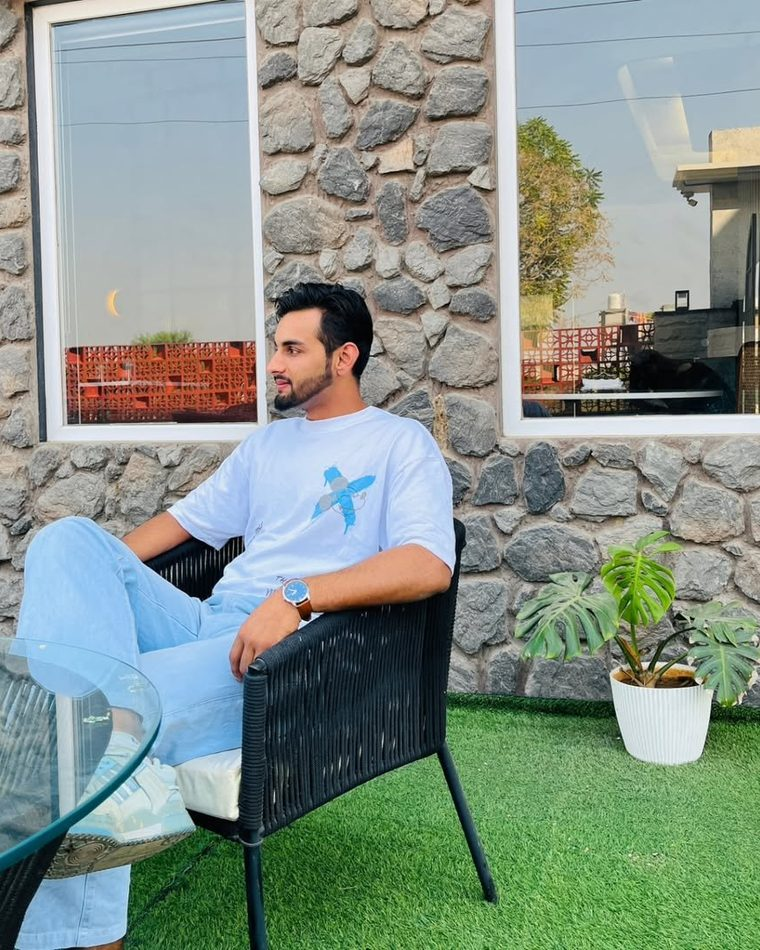
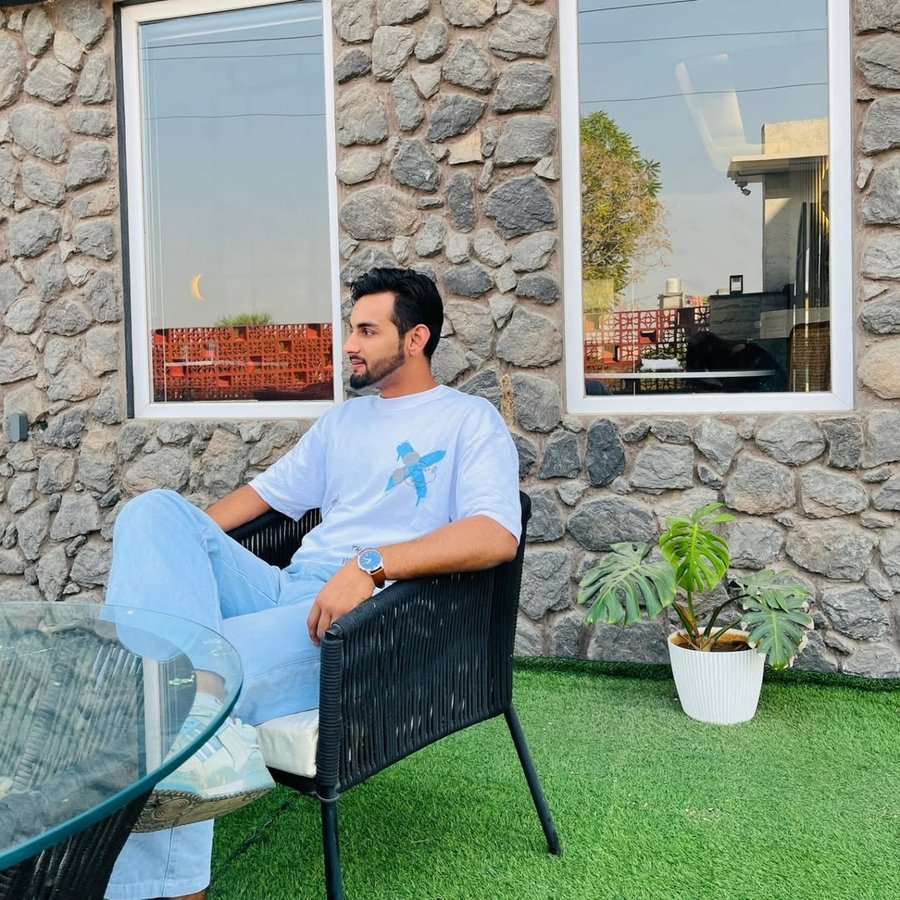
Refocus on GBP optimization & verification; full uncropped founder photos; remove empty case-study/proof-gallery slots; nav cleanup

diff --git a/lib/services.ts b/lib/services.ts
@@ -513,18 +513,18 @@ export type ServiceCard = {
 };
 
 export const SERVICE_CARDS: ServiceCard[] = [
-  { name: "Digital Marketing", icon: "Megaphone", blurb: "Full-funnel campaigns that turn attention into customers.", href: "/services/digital-marketing" },
+  { name: "Google Business Profile", icon: "Store", blurb: "Setup, verification & optimization — our specialty.", href: "/services/google-business-profile" },
+  { name: "Google Maps Ranking", icon: "Map", blurb: "Show up first when locals search nearby.", href: "/services/google-business-profile" },
+  { name: "Local SEO", icon: "MapPin", blurb: "Own the map pack and 'near me' searches.", href: "/services/local-seo" },
   { name: "Website Design & Development", icon: "MonitorSmartphone", blurb: "Fast, modern sites engineered to convert.", href: "/services/website-development" },
   { name: "Search Engine Optimization", icon: "TrendingUp", blurb: "Rank for the searches your buyers actually make.", href: "/services/seo" },
-  { name: "Local SEO", icon: "MapPin", blurb: "Own the map pack and 'near me' searches.", href: "/services/local-seo" },
-  { name: "Google Business Profile", icon: "Store", blurb: "A profile that turns searches into calls.", href: "/services/google-business-profile" },
-  { name: "Google Maps Ranking", icon: "Map", blurb: "Show up first when locals search nearby.", href: "/services/local-seo" },
   { name: "AI Agents", icon: "Bot", blurb: "AI employees that answer and book 24/7.", href: "/services/ai-agents" },
   { name: "AI Automation", icon: "Workflow", blurb: "Put lead handling and follow-up on autopilot.", href: "/services/ai-automation" },
   { name: "Lead Generation", icon: "Target", blurb: "A predictable pipeline of qualified leads.", href: "/services/lead-generation" },
-  { name: "Domain Registration", icon: "Globe", blurb: "Secure the perfect domain for your brand.", href: "/services/domain-hosting" },
-  { name: "Web Hosting", icon: "Server", blurb: "Fast, secure, managed cloud hosting.", href: "/services/domain-hosting" },
+  { name: "Digital Marketing", icon: "Megaphone", blurb: "Full-funnel campaigns that turn attention into customers.", href: "/services/digital-marketing" },
+  { name: "Google Ads / PPC", icon: "MousePointerClick", blurb: "Profitable paid traffic that converts.", href: "/services/digital-marketing" },
   { name: "Social Media Marketing", icon: "Share2", blurb: "Build audience and demand on social.", href: "/services/digital-marketing" },
   { name: "Online Reputation Management", icon: "ShieldCheck", blurb: "Earn reviews and protect your brand.", href: "/services/local-seo" },
-  { name: "Google Ads / PPC", icon: "MousePointerClick", blurb: "Profitable paid traffic that converts.", href: "/services/digital-marketing" },
+  { name: "Domain Registration", icon: "Globe", blurb: "Secure the perfect domain for your brand.", href: "/services/domain-hosting" },
+  { name: "Web Hosting", icon: "Server", blurb: "Fast, secure, managed cloud hosting.", href: "/services/domain-hosting" },
 ];

diff --git a/components/ui/FounderCard.tsx b/components/ui/FounderCard.tsx
@@ -6,17 +6,29 @@ import { GlassCard } from "./GlassCard";
 export function FounderCard({ founder }: { founder: Founder }) {
   return (
     <GlassCard glowBorder className="h-full !p-0 overflow-hidden">
-      <div className="flex h-full flex-col sm:flex-row">
-        {/* Portrait */}
-        <div className="relative aspect-[4/5] w-full shrink-0 sm:aspect-auto sm:w-[42%]">
+      <div className="flex h-full flex-col">
+        {/* Portrait — full photo, never cropped. Blurred copy fills the frame behind. */}
+        <div className="relative aspect-[4/5] w-full overflow-hidden">
+          {/* blurred backdrop (same image) so the contained photo has no empty bars */}
+          <Image
+            src={founder.photo}
+            alt=""
+            aria-hidden="true"
+            fill
+            sizes="(max-width: 1024px) 100vw, 560px"
+            className="scale-110 object-cover opacity-30 blur-2xl"
+          />
+          <div className="absolute inset-0 bg-ink-950/40" />
+          {/* full, uncropped foreground */}
           <Image
             src={founder.photo}
             alt={`${founder.name} — ${founder.role}, DigitalPitch Technologies`}
             fill
-            sizes="(max-width: 640px) 100vw, 320px"
-            className="object-cover object-top"
+            sizes="(max-width: 1024px) 100vw, 560px"
+            className="object-contain"
+            priority
           />
-          <div className="pointer-events-none absolute inset-0 bg-gradient-to-t from-ink-950/70 via-transparent to-transparent sm:bg-gradient-to-r sm:from-transparent sm:to-ink-900/30" />
+          <div className="pointer-events-none absolute inset-x-0 bottom-0 h-24 bg-gradient-to-t from-ink-900 to-transparent" />
         </div>
 
         {/* Details */}

diff --git a/components/sections/LocalSEO.tsx b/components/sections/LocalSEO.tsx
@@ -61,14 +61,14 @@ export function LocalSEO() {
     <section className="section-pad">
       <div className="container-x">
         <SectionHeading
-          eyebrow="Google Business Profile & Local SEO"
+          eyebrow="Our Specialty — Google Business Profile"
           title={
             <>
-              Get Found Where Customers Are{" "}
-              <span className="text-gradient-blue">Searching</span>
+              GMB Optimization —{" "}
+              <span className="text-gradient-blue">From Setup To Verification</span>
             </>
           }
-          subtitle="When people search for your service nearby, we make sure you're the business they find, trust and call first."
+          subtitle="Google Business Profile is what we do best. We handle the full process end to end — profile setup, verification preparation and ongoing optimization — so you show up on Google Search and Maps when local customers are looking."
         />
 
         <div className="mt-14 grid gap-8 lg:grid-cols-2 lg:items-center">
@@ -82,8 +82,8 @@ export function LocalSEO() {
                   </li>
                 ))}
               </ul>
-              <Button href="/services/local-seo" variant="primary" size="md" className="mt-7">
-                Improve My Google Ranking
+              <Button href="/services/google-business-profile" variant="primary" size="md" className="mt-7">
+                See Our GBP Process
                 <ArrowRight className="h-4 w-4" />
               </Button>
             </GlassCard>

diff --git a/components/sections/Hero.tsx b/components/sections/Hero.tsx
@@ -31,10 +31,10 @@ export function Hero() {
 
           <Reveal delay={0.12}>
             <p className="mx-auto mt-6 max-w-xl text-pretty text-base leading-relaxed text-slate-300 sm:text-lg lg:mx-0">
-              DigitalPitch Technologies combines Google Business Profile
-              expertise, SEO, high-performance websites, SaaS technology and AI
-              automation to help businesses get discovered, capture more
-              opportunities and operate more efficiently.
+              We specialise in Google Business Profile setup, verification and
+              optimization — getting your business seen on Google Search and Maps.
+              Around that, we build high-performance websites, SEO, SaaS tools and
+              AI automation into one complete growth system.
             </p>
           </Reveal>
 
@@ -66,7 +66,7 @@ export function Hero() {
 
           <Reveal delay={0.3}>
             <ul className="mt-7 flex flex-wrap justify-center gap-2 lg:justify-start">
-              {["Google Business Profile", "Local SEO", "Web Development", "SaaS", "AI Automation"].map((chip) => (
+              {["GBP Setup & Verification", "Local SEO", "Google Maps", "Web & SaaS", "AI Automation"].map((chip) => (
                 <li
                   key={chip}
                   className="rounded-full border border-white/10 bg-white/[0.03] px-3 py-1.5 text-xs font-medium text-slate-300"

diff --git a/app/page.tsx b/app/page.tsx
@@ -12,10 +12,8 @@ import { SEOSection } from "@/components/sections/SEOSection";
 import { DomainHosting } from "@/components/sections/DomainHosting";
 import { Process } from "@/components/sections/Process";
 import { Leadership } from "@/components/sections/Leadership";
-import { CaseStudies } from "@/components/sections/CaseStudies";
 import { WhyUs } from "@/components/sections/WhyUs";
 import { Packages } from "@/components/sections/Packages";
-import { ProofGallery } from "@/components/sections/ProofGallery";
 import { ContactSection } from "@/components/sections/ContactSection";
 import { FinalCTA } from "@/components/sections/FinalCTA";
 
@@ -24,9 +22,9 @@ export default function HomePage() {
     <>
       <Hero />
       <TrustBar />
+      <LocalSEO />
       <Services />
       <GrowthEcosystem />
-      <LocalSEO />
       <LocalRadar />
       <OurTechnology />
       <AIAgents />
@@ -36,10 +34,8 @@ export default function HomePage() {
       <DomainHosting />
       <Process />
       <Leadership />
-      <CaseStudies />
       <WhyUs />
       <Packages />
-      <ProofGallery />
       <ContactSection />
       <FinalCTA />
     </>

diff --git a/app/services/google-business-profile/page.tsx b/app/services/google-business-profile/page.tsx
@@ -71,7 +71,7 @@ const STAGES: Stage[] = [
     heading: "Prepare Your Business For Google Verification",
     intro:
       "Google determines which verification methods are available for each Business Profile. DigitalPitch helps business owners prepare accurate business information and supporting business evidence before completing the verification option Google provides. Possible Google-selected methods may include video, phone/text, email, live video or other available methods.",
-    note: "Verification availability and approval are controlled by Google. DigitalPitch Technologies cannot guarantee verification or select the verification method.",
+    note: "We manage the full verification process with you, end to end. Note: Google decides which verification method is offered and makes the final approval — we prepare everything to give your profile the best chance.",
   },
   {
     no: "04",

diff --git a/lib/site.ts b/lib/site.ts
@@ -71,7 +71,6 @@ export const NAV: NavItem[] = [
       { label: "GBP LocalRadar", href: "https://gbplocalradar.com/" },
     ],
   },
-  { label: "Portfolio", href: "/#portfolio" },
   { label: "About", href: "/about" },
   { label: "Contact", href: "/contact" },
 ];
